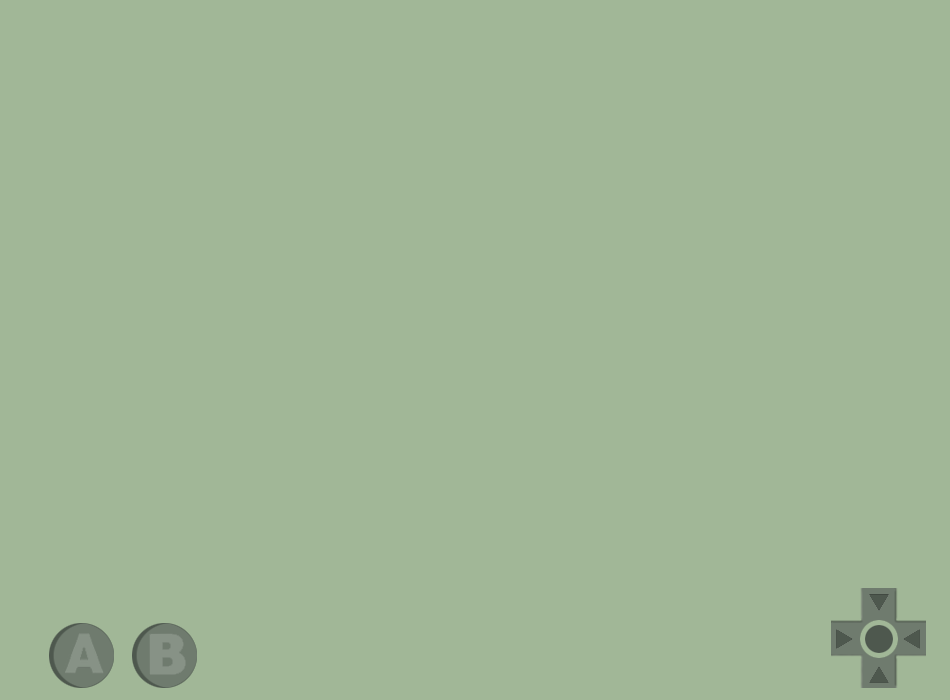
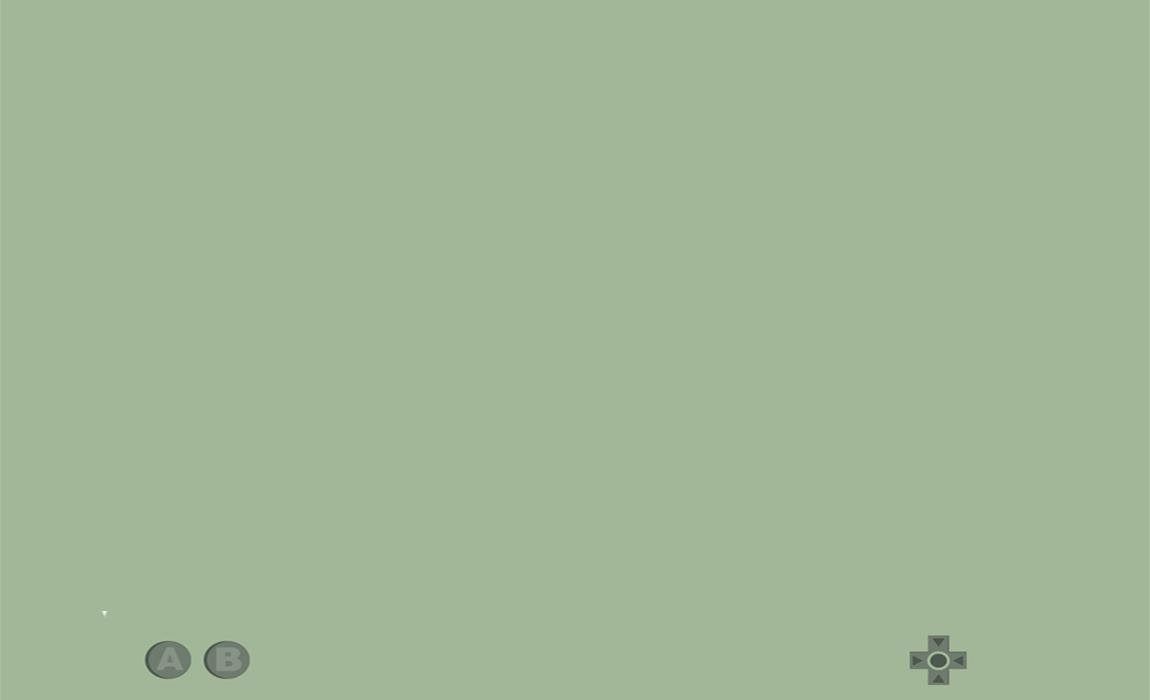
risolto bug con la schermata di gameover & other things

Changed region(s): [[0.0305, 0.87, 0.2137, 0.99], [0.8547, 0.84, 0.9768, 0.99], [0.7937, 0.9, 0.8547, 0.99]]

diff --git a/WindowsFormsApplication5/WindowsFormsApplication5/Graphics/Forms/GameOver.cs b/WindowsFormsApplication5/WindowsFormsApplication5/Graphics/Forms/GameOver.cs
@@ -11,7 +11,7 @@ namespace BlockBreaker
         public MenuButton Continue;
         private Bitmap backgroundimage;
         private Bitmap start_button_image;
-        public TextBox textBox = new TextBox();
+        public TextBox textBox;
         public Label Nickname;
 
         #endregion Fields
@@ -45,23 +45,55 @@ namespace BlockBreaker
         /// <param name="h"></param>
         public void on_resize(int l, int h)
         {
-            if (this.ClientSize.Height < 0 || this.ClientSize.Width < 0)
+            if (this.ClientSize.Height > 0 || this.ClientSize.Width > 0)
             {
             this.cleaner();
             this.BackgroundImage = new Bitmap(Properties.Resources.GameOver, this.ClientSize);
             this.BackgroundImageLayout = ImageLayout.Stretch;
             Continue.Dispose();
-            Size s = new Size(this.ClientSize.Width / 10, this.ClientSize.Height / 10);
-            Continue = new MenuButton(s);            
-            this.Continue.Top = ClientRectangle.Height / 8 * 6 - Continue.Height / 2;
-            this.Continue.Left = ClientRectangle.Width / 2 - Continue.Width / 2;
-            this.Continue.Text = "Continue";
-                this.textBox.Top = this.Continue.Top - this.Continue.Height;
-            this.textBox.Size = this.Continue.Size;
-            this.textBox.Left = this.Continue.Left;
-            this.start_button_image = new Bitmap(Properties.Resources.BlueRoundedButton, this.Continue.Size);
-            this.Controls.Add(Continue);
-        }
+
+                // Imposta l'immagine, il size, il background e il testo del pulsante Continue
+                Size s = new Size(this.ClientSize.Width / 10, this.ClientSize.Height / 10);
+                this.Continue = new MenuButton(s);
+                this.Continue.Text = "Continue";
+
+                // Imposta la sua posizione e lo aggiungo ai controlli
+                this.Continue.Top = ClientRectangle.Height / 11 * 10 - Continue.Height / 2;
+                this.Continue.Left = ClientRectangle.Width / 2 - Continue.Width / 2;
+                this.Controls.Add(Continue);
+
+                // Imposta la label
+                this.Nickname.Dispose();
+                this.Nickname = new Label();
+                MyFonts fonts = new MyFonts(MyFonts.FontType.paragraph);
+                this.Nickname.UseCompatibleTextRendering = true;
+                this.Nickname.Width = 80;
+                this.Nickname.Top = Continue.Top - Continue.Height;
+                this.Nickname.Font = new Font(fonts.type.Families[0], 12, FontStyle.Regular);
+                this.Nickname.ForeColor = Color.White;
+                this.Nickname.BackColor = Color.Black;
+                this.Nickname.Text = "Nickname: ";
+                this.Nickname.Left = ClientRectangle.Width / 2 - Continue.Width / 2 - this.Nickname.Width / 2;
+                this.Controls.Add(Nickname);
+
+                // Imposta posizione, placeholder e size della textBox
+                this.textBox.Dispose();
+                this.textBox = new TextBox();
+                this.textBox.Size = Continue.Size;
+                this.textBox.Top = Continue.Top - Continue.Height;
+                this.textBox.Left = Continue.Left + this.Nickname.Width / 2;
+                this.textBox.Text = "Insert Name...";
+                this.textBox.Click += TextBox_Click;
+                this.Controls.Add(textBox);
+
+                // Imposta l'immagine di background
+                if (this.Size.Height > 0)
+                    this.backgroundimage = new Bitmap(Properties.Resources.GameOver, this.Size);
+
+                // Aspetto il Garbage Collector
+                GC.Collect();
+                GC.WaitForPendingFinalizers();
+            }
         }
 
         private void GameOver_Load(object sender, EventArgs e)
@@ -81,10 +113,24 @@ namespace BlockBreaker
             this.Continue.Left = ClientRectangle.Width / 2 - Continue.Width / 2;
             this.Controls.Add(Continue);
 
+            // Imposta la label
+            this.Nickname = new Label();
+            MyFonts fonts = new MyFonts(MyFonts.FontType.paragraph);
+            this.Nickname.UseCompatibleTextRendering = true;
+            this.Nickname.Width = 80;
+            this.Nickname.Top = Continue.Top - Continue.Height;
+            this.Nickname.Font = new Font(fonts.type.Families[0], 12, FontStyle.Regular);
+            this.Nickname.ForeColor = Color.White;
+            this.Nickname.BackColor = Color.Black;
+            this.Nickname.Text = "Nickname: ";
+            this.Nickname.Left = ClientRectangle.Width / 2 - Continue.Width / 2 - this.Nickname.Width/2;
+            this.Controls.Add(Nickname);
+
             // Imposta posizione, placeholder e size della textBox
+            this.textBox = new TextBox();
             this.textBox.Size = Continue.Size;
             this.textBox.Top = Continue.Top - Continue.Height;
-            this.textBox.Left = Continue.Left;
+            this.textBox.Left = Continue.Left + this.Nickname.Width/2;
             this.textBox.Text = "Insert Name...";
             this.textBox.Click += TextBox_Click;
             this.Controls.Add(textBox);

diff --git a/WindowsFormsApplication5/WindowsFormsApplication5/Graphics/Sprite/Ball.cs b/WindowsFormsApplication5/WindowsFormsApplication5/Graphics/Sprite/Ball.cs
@@ -71,6 +71,8 @@ namespace BlockBreaker
         /// <param name="altezza_client_iniziale"></param>
         /// <param name="lunghezza_client"></param>
         /// <param name="altezza_client"></param>
+        /// 
+
         public void totalVelocityReset(int lunghezza_client_iniziale, int altezza_client_iniziale, int lunghezza_client, int altezza_client)
         {
             this.velocity.Y = this.velocity.Y * altezza_client / altezza_client_iniziale;

diff --git a/WindowsFormsApplication5/WindowsFormsApplication5/Logic/FPSChecker.cs b/WindowsFormsApplication5/WindowsFormsApplication5/Logic/FPSChecker.cs
@@ -15,7 +15,7 @@ namespace BlockBreaker
         public Stopwatch gameTime;
 
         //variabile per limitare gli fps
-        public int interval = 1000 / 70;
+        public int interval = 1000 / 85;
 
         public long lastTime;
         public int previousSecond;
